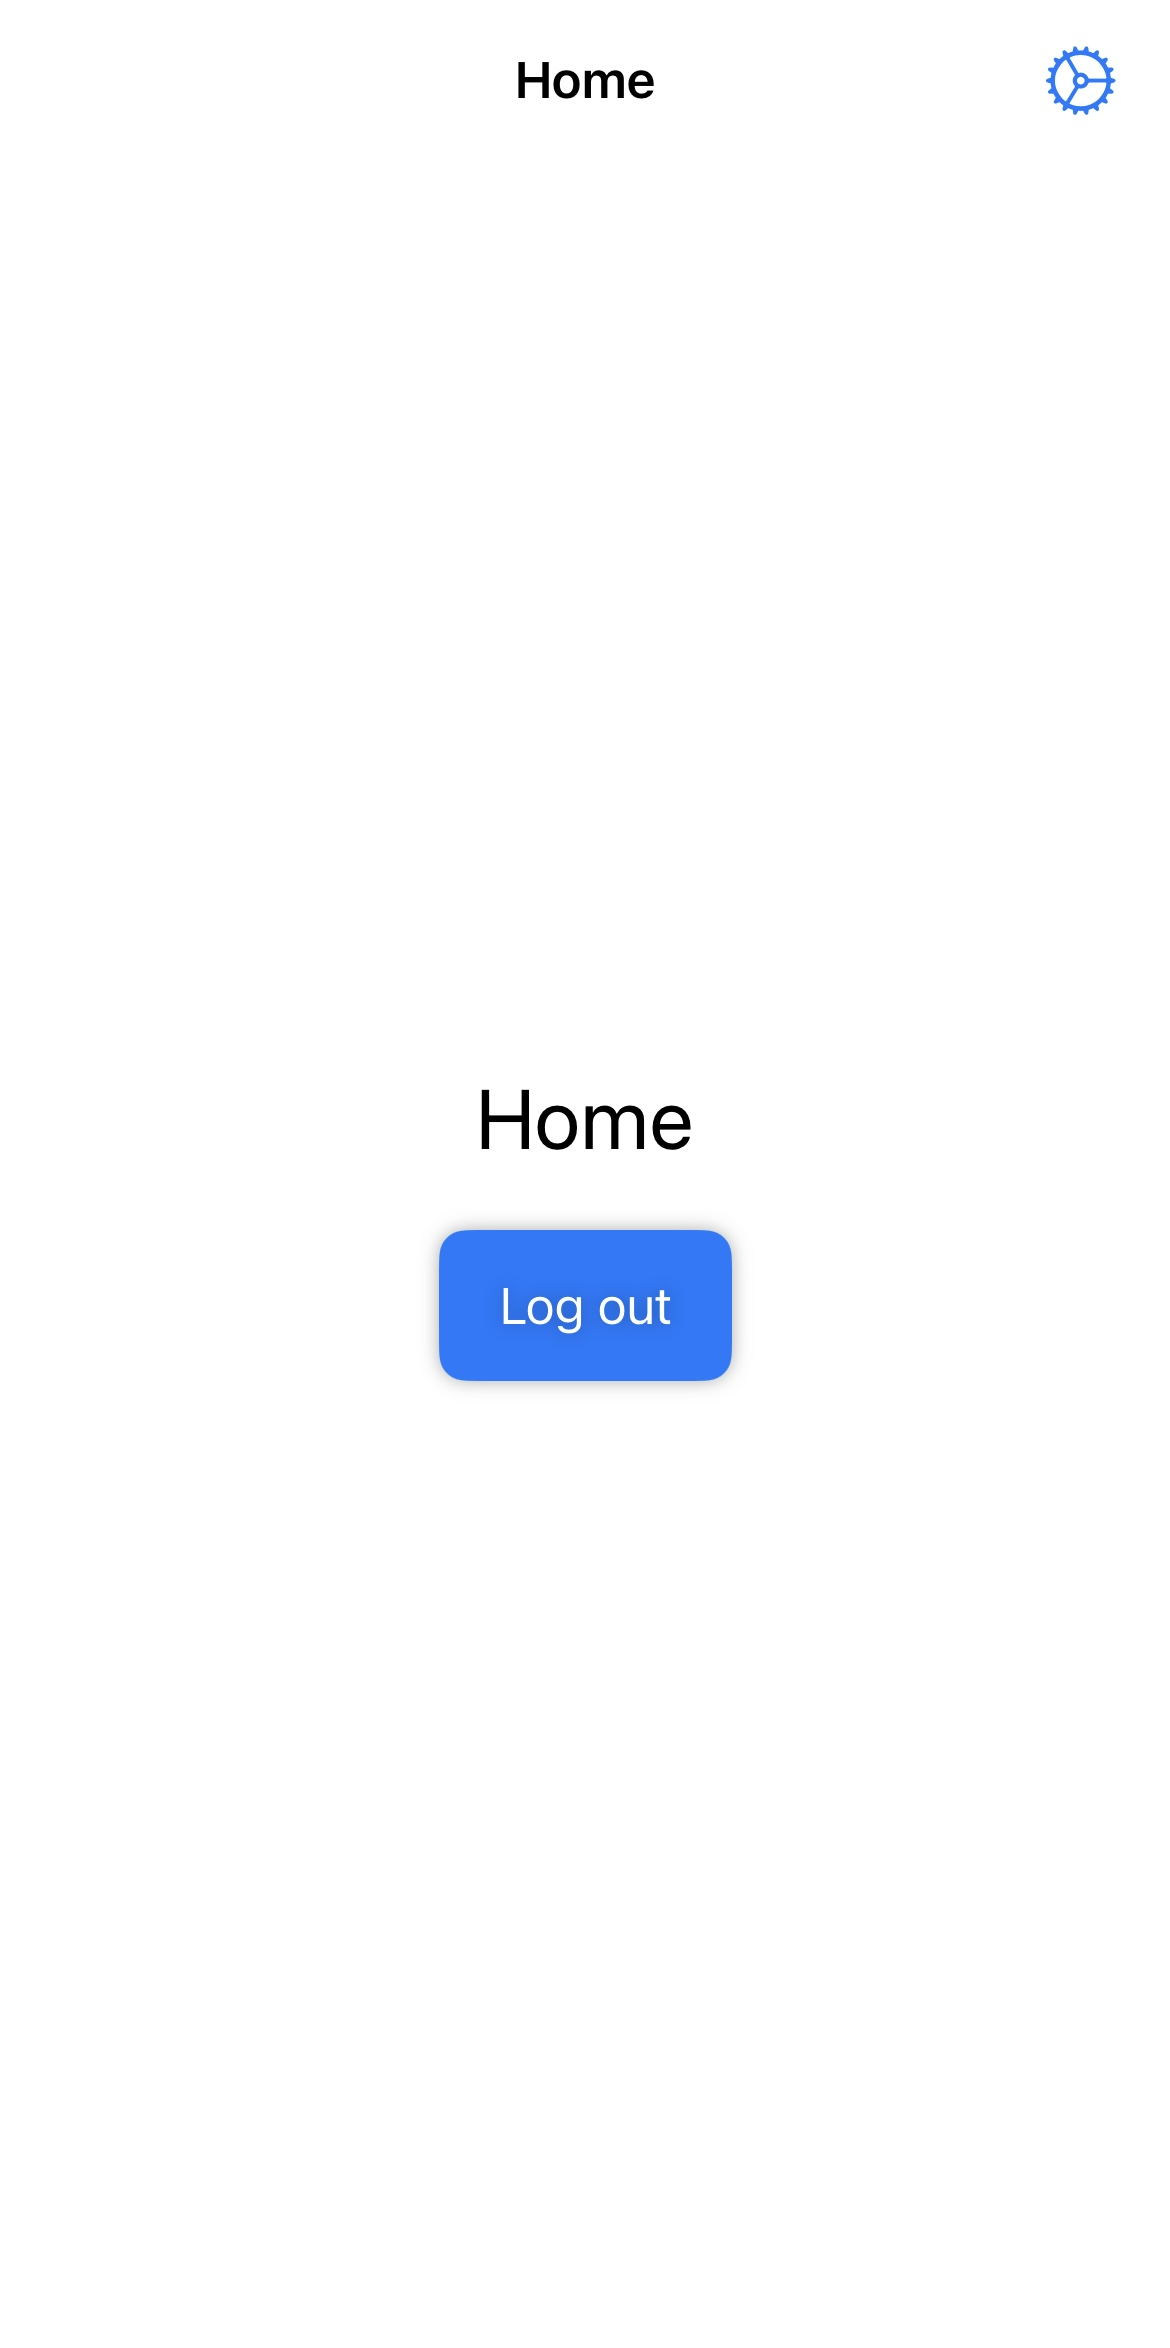
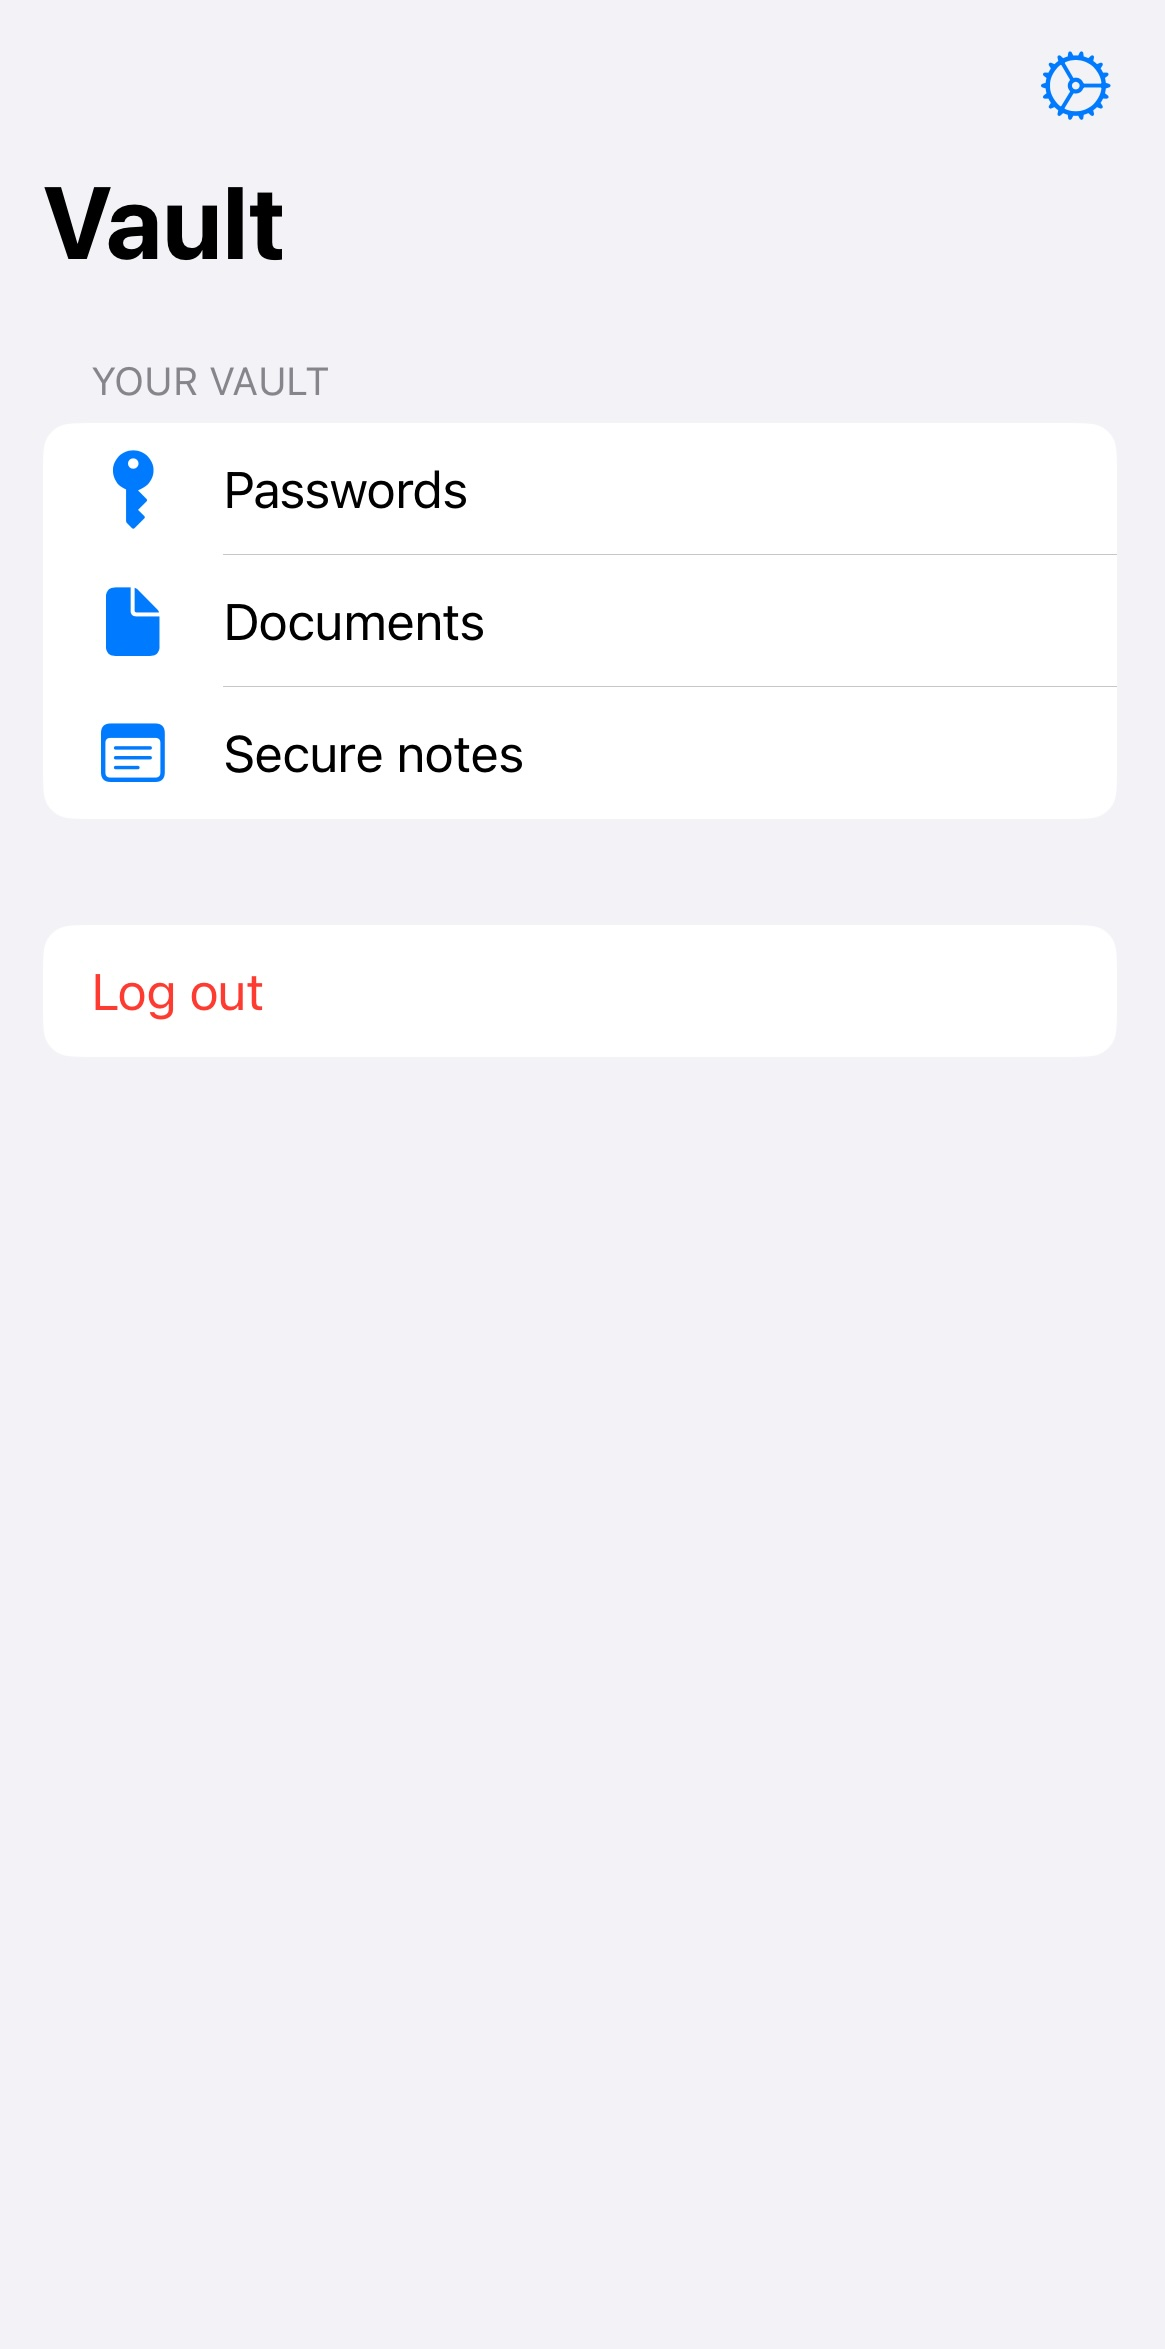
UI changes with screenshots

diff --git a/Views/SignupLoginView.swift b/Views/SignupLoginView.swift
@@ -10,53 +10,81 @@ import SwiftUI
 struct SignupLoginView: View {
     @State private var email = ""
     @State private var password = ""
+    @FocusState private var focusedField: Field?
 
     let viewModel: AuthViewModel
 
+    private enum Field { case email, password }
+
     var body: some View {
-        ZStack {
-            Color(.systemBackground)
-            VStack {
-                Text("SecureVault").font(.title2).foregroundStyle(Color.accentColor).padding().bold()
+        ScrollView {
+            VStack(spacing: 32) {
+                header
 
-                Spacer()
-
-                Text("Welcome back").font(.title).padding(50)
-
-                BorderedField {
-                    TextField("Email", text: $email)
-                }
-
-                BorderedField {
-                    SecureField("Password", text: $password)
-                }
-
-                if let errorMessage = viewModel.errorMessage {
-                    Text(errorMessage)
-                        .font(.footnote)
-                        .foregroundStyle(.red)
-                        .multilineTextAlignment(.center)
-                        .padding(.horizontal)
-                }
-
-                Button {
-                    Task {
-                        await viewModel.signIn(email: email, password: password)
+                VStack(spacing: 16) {
+                    BorderedField {
+                        TextField("Email", text: $email)
+                            .textContentType(.emailAddress)
+                            .keyboardType(.emailAddress)
+                            .textInputAutocapitalization(.never)
+                            .autocorrectionDisabled()
+                            .focused($focusedField, equals: .email)
+                            .submitLabel(.next)
+                            .onSubmit { focusedField = .password }
                     }
-                } label: {
+
+                    BorderedField {
+                        SecureField("Password", text: $password)
+                            .textContentType(.password)
+                            .focused($focusedField, equals: .password)
+                            .submitLabel(.go)
+                            .onSubmit {
+                                if canSubmit {
+                                    submit()
+                                }
+                            }
+                    }
+
+                    if let errorMessage = viewModel.errorMessage {
+                        Text(errorMessage)
+                            .font(.footnote)
+                            .foregroundStyle(.red)
+                            .multilineTextAlignment(.center)
+                    }
+                }
+
+                Button(action: submit) {
                     if viewModel.isSubmitting {
                         ProgressView()
                     } else {
-                        Text("Login to system")
+                        Text("Log in")
                     }
                 }
                 .primaryButtonStyle()
-                .padding()
                 .disabled(!canSubmit)
-
-                Spacer()
             }
+            .padding(.horizontal, 24)
+            .padding(.top, 72)
         }
+        .scrollDismissesKeyboard(.interactively)
+        .onTapGesture { focusedField = nil }
+        .background(Color(.systemGroupedBackground))
+    }
+
+    private var header: some View {
+        VStack(spacing: 12) {
+            Image(systemName: "lock.shield.fill")
+                .font(.system(size: 56))
+                .foregroundStyle(.tint)
+            Text("SecureVault")
+                .font(.largeTitle.bold())
+            Text("Sign in to open your vault")
+                .foregroundStyle(.secondary)
+        }
+    }
+
+    private func submit() {
+        Task { await viewModel.signIn(email: email, password: password) }
     }
 
     private var canSubmit: Bool {

diff --git a/Views/HomeView.swift b/Views/HomeView.swift
@@ -12,23 +12,27 @@ struct HomeView: View {
 
     var body: some View {
         NavigationStack {
-            VStack(spacing: 20) {
-                Text("Home")
-                    .font(.title)
-                Button {
-                    Task { await viewModel.signOut() }
-                } label: {
-                    if viewModel.isSubmitting {
-                        ProgressView()
-                    } else {
-                        Text("Log out")
+            List {
+                Section("Your vault") {
+                    ForEach(VaultItem.samples) { item in
+                        Label(item.title, systemImage: item.symbol)
                     }
                 }
-                .primaryButtonStyle()
-                .disabled(viewModel.isSubmitting)
+
+                Section {
+                    Button(role: .destructive) {
+                        Task { await viewModel.signOut() }
+                    } label: {
+                        if viewModel.isSubmitting {
+                            ProgressView()
+                        } else {
+                            Text("Log out")
+                        }
+                    }
+                    .disabled(viewModel.isSubmitting)
+                }
             }
-            .navigationTitle("Home")
-            .navigationBarTitleDisplayMode(.inline)
+            .navigationTitle("Vault")
             .toolbar {
                 ToolbarItem(placement: .topBarTrailing) {
                     NavigationLink {
@@ -40,6 +44,19 @@ struct HomeView: View {
             }
         }
     }
+}
+
+/// Placeholder data until real vault storage exists
+struct VaultItem: Identifiable {
+    let id = UUID()
+    let title: String
+    let symbol: String
+
+    static let samples = [
+        VaultItem(title: "Passwords", symbol: "key.fill"),
+        VaultItem(title: "Documents", symbol: "doc.fill"),
+        VaultItem(title: "Secure notes", symbol: "note.text"),
+    ]
 }
 
 #if DEBUG

diff --git a/Views/LockedView.swift b/Views/LockedView.swift
@@ -11,15 +11,41 @@ struct LockedView: View {
     let viewModel: AuthViewModel
 
     var body: some View {
-        VStack(spacing: 20) {
-            Image(systemName: "lock.fill")
-                .font(.system(size: 48))
-            Text("SecureVault is locked")
-                .font(.title2)
-            Button("Unlock") { Task { await viewModel.unlock() } }
-                .primaryButtonStyle()
-            Button("Sign out", role: .destructive) { Task { await viewModel.signOut() } }
+        VStack(spacing: 24) {
+            Spacer()
+
+            // Same icon family as the login header, so the app feels like one product
+            Image(systemName: "lock.shield.fill")
+                .font(.system(size: 64))
+                .foregroundStyle(.tint)
+
+            VStack(spacing: 8) {
+                Text("SecureVault is locked")
+                    .font(.title2.bold())
+                Text("Use Face ID or your passcode to continue")
+                    .foregroundStyle(.secondary)
+            }
+
+            Button {
+                Task { await viewModel.unlock() }
+            } label: {
+                // Icon + text tells users what will happen when they tap
+                Label("Unlock", systemImage: "faceid")
+            }
+            .primaryButtonStyle()
+
+            // Quiet secondary action: signing out is rare, so it shouldn't compete with Unlock
+            Button("Sign out", role: .destructive) {
+                Task { await viewModel.signOut() }
+            }
+            .font(.footnote)
+
+            Spacer()
         }
+        .padding(.horizontal, 24)
+        .frame(maxWidth: .infinity, maxHeight: .infinity)
+        // Same grouped background as Login and Settings
+        .background(Color(.systemGroupedBackground))
     }
 }
 
